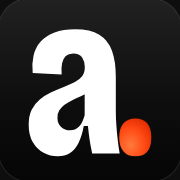
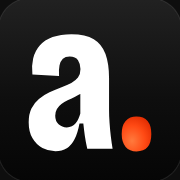
fix(web): clear the full stop, and a pill for the current page
The full stop overlapped the t by 9 units in the outlined wordmark and the
a in the icon; it now sits 40 units clear everywhere it's drawn (footer,
logo, downloadable SVGs, app icon, menu bar glyph, favicon). The nav's ember
dot under the current page is now a soft pill that slides between links.

diff --git a/web/src/data/wordmark.ts b/web/src/data/wordmark.ts
@@ -1,4 +1,4 @@
-/** The wordmark "anyfmt." outlined from Bricolage Grotesque (700, width 75, tracking -0.04em). Font units, y up.
+/** The wordmark "anyfmt." outlined from Bricolage Grotesque (700, width 75, tracking -0.04em), with the full stop set 40 units clear of the t. Font units, y up.
  * VIEWBOX frames the ink, the f and t ascenders down to the y descender, in y-down SVG space. */
-export const WORDMARK_VIEWBOX = { x: 24, y: -703, w: 2600, h: 862 }
-export const WORDMARK: { x: number; d: string; dot: boolean }[] = [{"x": 0.0, "d": "M150 -12.5Q117 -12.5 88.4 2.8Q59.8 18.2 41.7 48.9Q23.5 79.7 23.5 125.5Q23.5 163.3 36.5 190.1Q49.5 216.8 71.8 235.2Q94.2 253.7 121.9 266.7Q149.7 279.7 179 291Q205.5 301.3 225.2 311.2Q244.8 321 256.6 336.3Q268.3 351.5 268.3 377Q268.3 401 256.7 418.5Q245 436 217.5 436Q196.7 436 185.1 424.8Q173.5 413.5 169.2 392.9Q164.8 372.3 167.2 343.8L41 351Q36.2 391 44.6 426.5Q53 462 75.8 487.8Q98.7 513.7 136.3 527.7Q174 541.7 225.7 541.7Q292.7 541.7 331.3 518.1Q370 494.5 386.7 448.3Q403.5 402 403.5 334.3V184.3Q403.5 158.3 405.8 124.3Q408.2 90.2 412 57.3Q415.8 24.3 420.3 0H300.5Q293 32.7 289.1 60.4Q285.2 88.2 281.8 119.3H263.7Q255.7 75.2 240.8 45.6Q226 16 203.7 1.8Q181.5 -12.5 150 -12.5ZM203.5 100.7Q217.2 100.7 227.4 105.7Q237.7 110.7 245.5 119.8Q253.3 129 258.7 141.7Q264.2 154.3 267.7 166.7V288.8L301.5 283.5Q290 270.8 274 261.8Q258 252.7 240.8 244.8Q223.7 237 207.6 229.1Q191.5 221.2 178.3 211.2Q165.2 201.2 157.1 187.8Q149 174.5 149 155.8Q149 130.3 164.9 115.5Q180.8 100.7 203.5 100.7Z", "dot": false}, {"x": 413.0, "d": "M50.8 0V337.8V528H155.8L157.7 378.3H178.8Q187.7 437.5 203.5 473.8Q219.3 510.2 244 525.9Q268.7 541.7 303.5 541.7Q369.7 541.7 401.1 492.8Q432.5 443.8 432.5 347.3V0H294V316.8Q294 370.8 283.7 397.1Q273.3 423.3 250.3 423.3Q231.5 423.3 217.4 405Q203.3 386.7 196.2 353.3Q189.2 319.8 188.5 269.7V0Z", "dot": false}, {"x": 851.0, "d": "M203.8 -158.3Q169.7 -158.3 135.7 -151.4Q101.8 -144.5 73.1 -133.2Q44.3 -122 24.7 -106.7L73 2Q99.5 -20.5 130 -31.5Q160.5 -42.5 189 -42.5Q227.3 -42.5 256.2 -22.3Q285.2 -2.2 301.5 40.5Q317.8 83.2 317.8 150L320.5 208.8H299.8Q291.2 145.7 270.4 108.2Q249.7 70.7 221.3 53.9Q193 37.2 160.8 37.2Q123 37.2 97.6 58.7Q72.2 80.3 59 125.3Q45.8 170.3 45.8 241.2V528H184.3V285.2Q184.3 218.3 194.7 189.7Q205 161.2 229.7 161.2Q243.2 161.2 253.5 170.7Q263.8 180.2 271.2 198.3Q278.5 216.5 282.3 243.7Q286.2 270.8 286.7 306.5V528H424.3V122.8Q424.3 63.3 413.3 16.9Q402.3 -29.5 382.9 -63Q363.5 -96.5 335.8 -117.7Q308.2 -139 274.7 -148.7Q241.3 -158.3 203.8 -158.3Z", "dot": false}, {"x": 1284.0, "d": "M84 0V338.7H18.3V438.5L144.5 426.2V445.3Q101.3 455.5 75.3 475.1Q49.2 494.7 38.3 519.4Q27.3 544.2 27.3 570.3Q27.3 609.2 46.6 639.2Q65.8 669.2 100.4 686.2Q135 703.3 182 703.3Q213 703.3 241.2 695.5Q269.5 687.7 293.7 671.5L274.7 550.2Q255.8 561.5 236.7 566.7Q217.7 571.8 203.8 571.8Q177.8 571.8 164.9 555.4Q152 539 152 517.5Q152 503 158.3 489.7Q164.7 476.3 173.7 465.7Q182.8 455 194.5 444.8H280V338.7H221.7V0Z", "dot": false}, {"x": 1549.0, "d": "M50.8 0V344V528H155L156.8 378.3H178.7Q188.2 437.5 203 473.8Q217.8 510.2 240.2 525.9Q262.7 541.7 293.7 541.7Q330.5 541.7 351.8 522.1Q373.2 502.5 381.2 466.3Q389.3 430.2 386 378.5H408.2Q420 438.2 435.6 474.1Q451.2 510 474.8 525.8Q498.5 541.7 532.3 541.7Q563.2 541.7 585.8 530.1Q608.5 518.5 624 494.2Q639.5 470 646.7 432.8Q654 395.7 654 344V0H515.5V315.5Q515.5 352.8 511.3 375.9Q507.2 399 498.2 410.8Q489.2 422.5 475.3 422.5Q457.5 422.5 445 405.7Q432.5 388.8 426 355.2Q419.5 321.5 419 273V0H287V312.7Q287 351.8 282.8 375.4Q278.5 399 269.6 410.8Q260.7 422.5 245.8 422.5Q228.2 422.5 215.2 405.9Q202.2 389.3 195.7 356.2Q189.2 323 188.5 273V0Z", "dot": false}, {"x": 2210.0, "d": "M219.3 -10.2Q146.5 -10.2 104.8 32.8Q63.2 75.8 63.2 165.7V421.7H17.8V527H42Q74.2 528 89.2 537.8Q104.2 547.7 108.7 574L117.8 633.2H198.5V528H276.5V418.3H198.5V192.5Q198.5 156.7 211.2 138.7Q224 120.7 244.5 120.7Q252 120.7 261 122.3Q270 124 281.8 126.3V0Q265.7 -4 251.5 -7.1Q237.3 -10.2 219.3 -10.2Z", "dot": false}, {"x": 2478.0, "d": "M75.3 -12.7Q42.7 -12.7 24 8.6Q5.3 29.8 5.3 69.3Q5.3 109.8 24 131.1Q42.7 152.3 75.3 152.3Q110 152.3 127.7 131.1Q145.3 109.8 145.3 69.3Q145.3 -12.7 75.3 -12.7Z", "dot": true}]
+export const WORDMARK_VIEWBOX = { x: 24, y: -703, w: 2648, h: 862 }
+export const WORDMARK: { x: number; d: string; dot: boolean }[] = [{"x": 0.0, "d": "M150 -12.5Q117 -12.5 88.4 2.8Q59.8 18.2 41.7 48.9Q23.5 79.7 23.5 125.5Q23.5 163.3 36.5 190.1Q49.5 216.8 71.8 235.2Q94.2 253.7 121.9 266.7Q149.7 279.7 179 291Q205.5 301.3 225.2 311.2Q244.8 321 256.6 336.3Q268.3 351.5 268.3 377Q268.3 401 256.7 418.5Q245 436 217.5 436Q196.7 436 185.1 424.8Q173.5 413.5 169.2 392.9Q164.8 372.3 167.2 343.8L41 351Q36.2 391 44.6 426.5Q53 462 75.8 487.8Q98.7 513.7 136.3 527.7Q174 541.7 225.7 541.7Q292.7 541.7 331.3 518.1Q370 494.5 386.7 448.3Q403.5 402 403.5 334.3V184.3Q403.5 158.3 405.8 124.3Q408.2 90.2 412 57.3Q415.8 24.3 420.3 0H300.5Q293 32.7 289.1 60.4Q285.2 88.2 281.8 119.3H263.7Q255.7 75.2 240.8 45.6Q226 16 203.7 1.8Q181.5 -12.5 150 -12.5ZM203.5 100.7Q217.2 100.7 227.4 105.7Q237.7 110.7 245.5 119.8Q253.3 129 258.7 141.7Q264.2 154.3 267.7 166.7V288.8L301.5 283.5Q290 270.8 274 261.8Q258 252.7 240.8 244.8Q223.7 237 207.6 229.1Q191.5 221.2 178.3 211.2Q165.2 201.2 157.1 187.8Q149 174.5 149 155.8Q149 130.3 164.9 115.5Q180.8 100.7 203.5 100.7Z", "dot": false}, {"x": 413.0, "d": "M50.8 0V337.8V528H155.8L157.7 378.3H178.8Q187.7 437.5 203.5 473.8Q219.3 510.2 244 525.9Q268.7 541.7 303.5 541.7Q369.7 541.7 401.1 492.8Q432.5 443.8 432.5 347.3V0H294V316.8Q294 370.8 283.7 397.1Q273.3 423.3 250.3 423.3Q231.5 423.3 217.4 405Q203.3 386.7 196.2 353.3Q189.2 319.8 188.5 269.7V0Z", "dot": false}, {"x": 851.0, "d": "M203.8 -158.3Q169.7 -158.3 135.7 -151.4Q101.8 -144.5 73.1 -133.2Q44.3 -122 24.7 -106.7L73 2Q99.5 -20.5 130 -31.5Q160.5 -42.5 189 -42.5Q227.3 -42.5 256.2 -22.3Q285.2 -2.2 301.5 40.5Q317.8 83.2 317.8 150L320.5 208.8H299.8Q291.2 145.7 270.4 108.2Q249.7 70.7 221.3 53.9Q193 37.2 160.8 37.2Q123 37.2 97.6 58.7Q72.2 80.3 59 125.3Q45.8 170.3 45.8 241.2V528H184.3V285.2Q184.3 218.3 194.7 189.7Q205 161.2 229.7 161.2Q243.2 161.2 253.5 170.7Q263.8 180.2 271.2 198.3Q278.5 216.5 282.3 243.7Q286.2 270.8 286.7 306.5V528H424.3V122.8Q424.3 63.3 413.3 16.9Q402.3 -29.5 382.9 -63Q363.5 -96.5 335.8 -117.7Q308.2 -139 274.7 -148.7Q241.3 -158.3 203.8 -158.3Z", "dot": false}, {"x": 1284.0, "d": "M84 0V338.7H18.3V438.5L144.5 426.2V445.3Q101.3 455.5 75.3 475.1Q49.2 494.7 38.3 519.4Q27.3 544.2 27.3 570.3Q27.3 609.2 46.6 639.2Q65.8 669.2 100.4 686.2Q135 703.3 182 703.3Q213 703.3 241.2 695.5Q269.5 687.7 293.7 671.5L274.7 550.2Q255.8 561.5 236.7 566.7Q217.7 571.8 203.8 571.8Q177.8 571.8 164.9 555.4Q152 539 152 517.5Q152 503 158.3 489.7Q164.7 476.3 173.7 465.7Q182.8 455 194.5 444.8H280V338.7H221.7V0Z", "dot": false}, {"x": 1549.0, "d": "M50.8 0V344V528H155L156.8 378.3H178.7Q188.2 437.5 203 473.8Q217.8 510.2 240.2 525.9Q262.7 541.7 293.7 541.7Q330.5 541.7 351.8 522.1Q373.2 502.5 381.2 466.3Q389.3 430.2 386 378.5H408.2Q420 438.2 435.6 474.1Q451.2 510 474.8 525.8Q498.5 541.7 532.3 541.7Q563.2 541.7 585.8 530.1Q608.5 518.5 624 494.2Q639.5 470 646.7 432.8Q654 395.7 654 344V0H515.5V315.5Q515.5 352.8 511.3 375.9Q507.2 399 498.2 410.8Q489.2 422.5 475.3 422.5Q457.5 422.5 445 405.7Q432.5 388.8 426 355.2Q419.5 321.5 419 273V0H287V312.7Q287 351.8 282.8 375.4Q278.5 399 269.6 410.8Q260.7 422.5 245.8 422.5Q228.2 422.5 215.2 405.9Q202.2 389.3 195.7 356.2Q189.2 323 188.5 273V0Z", "dot": false}, {"x": 2210.0, "d": "M219.3 -10.2Q146.5 -10.2 104.8 32.8Q63.2 75.8 63.2 165.7V421.7H17.8V527H42Q74.2 528 89.2 537.8Q104.2 547.7 108.7 574L117.8 633.2H198.5V528H276.5V418.3H198.5V192.5Q198.5 156.7 211.2 138.7Q224 120.7 244.5 120.7Q252 120.7 261 122.3Q270 124 281.8 126.3V0Q265.7 -4 251.5 -7.1Q237.3 -10.2 219.3 -10.2Z", "dot": false}, {"x": 2527.0, "d": "M75.3 -12.7Q42.7 -12.7 24 8.6Q5.3 29.8 5.3 69.3Q5.3 109.8 24 131.1Q42.7 152.3 75.3 152.3Q110 152.3 127.7 131.1Q145.3 109.8 145.3 69.3Q145.3 -12.7 75.3 -12.7Z", "dot": true}]

diff --git a/web/src/components/Nav.tsx b/web/src/components/Nav.tsx
@@ -51,18 +51,22 @@ export function Nav({ tone = 'light' }: { tone?: 'light' | 'dark' }) {
           : { maxWidth: 1440, paddingLeft: 18, paddingRight: 18, backgroundColor: 'rgba(255,255,255,0)', boxShadow: '0 0 0 rgba(0,0,0,0), 0 0 0 rgba(0,0,0,0)', borderRadius: 999 }}
         transition={reduce ? { duration: 0 } : { duration: 0.6, ease: EASE }}
         className={`mx-auto flex h-16 items-center justify-between gap-4`}>
-        <div className="flex min-w-0 items-center gap-10">
+        <div className="flex min-w-0 items-center gap-7">
           <Link to="/" aria-label="anyfmt home" className="shrink-0 rounded-md outline-none focus-visible:ring-2 focus-visible:ring-flare">
             <Logo tone={light ? 'ink' : 'white'} className={pinned ? 'text-[26px]' : 'text-[30px]'} />
           </Link>
-          <ul className="hidden items-center gap-7 lg:flex">
-            {NAV.map(([l, to]) => (
-              <li key={to} className="relative">
-                <Link to={to} aria-current={active(to) ? 'page' : undefined}
-                  className={`link-line py-1 text-[15.5px] outline-none transition-colors focus-visible:ring-2 focus-visible:ring-flare ${ink}`}>{l}</Link>
-                {active(to) && <motion.span layoutId="nav-dot" className="absolute -bottom-2.5 left-1/2 h-1.5 w-1.5 -translate-x-1/2 rounded-full bg-flare" transition={{ type: 'spring', stiffness: 500, damping: 34 }} />}
-              </li>
-            ))}
+          {/* the current section sits in a soft pill that slides to the next one; the others are a step quieter */}
+          <ul className="hidden items-center gap-1 lg:flex">
+            {NAV.map(([l, to]) => {
+              const on = active(to)
+              return (
+                <li key={to} className="relative">
+                  {on && <motion.span layoutId="nav-pill" aria-hidden className={`absolute inset-0 rounded-full ${light ? 'bg-black/[.06]' : 'bg-white/[.14]'}`} transition={{ type: 'spring', stiffness: 520, damping: 40 }} />}
+                  <Link to={to} aria-current={on ? 'page' : undefined}
+                    className={`relative flex h-9 items-center rounded-full px-3.5 text-[15.5px] outline-none transition-colors duration-200 focus-visible:ring-2 focus-visible:ring-flare ${on ? ink : light ? 'text-ink/65 hover:text-ink' : 'text-white/70 hover:text-white'}`}>{l}</Link>
+                </li>
+              )
+            })}
           </ul>
         </div>
         <div className="flex shrink-0 items-center gap-2">
@@ -95,8 +99,8 @@ export function Nav({ tone = 'light' }: { tone?: 'light' | 'dark' }) {
               <ul className="mt-6 flex flex-col">
                 {NAV.map(([l, to], i) => (
                   <motion.li key={to} initial={{ opacity: 0, y: 16 }} animate={{ opacity: 1, y: 0 }} transition={{ duration: 0.5, ease: EASE, delay: 0.08 + i * 0.04 }}>
-                    <Link to={to} className="flex items-center justify-between rounded-[12px] py-1 text-[32px] font-semibold tracking-[-0.04em] outline-none focus-visible:ring-2 focus-visible:ring-flare">
-                      {l}{active(to) && <span className="h-2.5 w-2.5 rounded-full bg-flare" />}
+                    <Link to={to} aria-current={active(to) ? 'page' : undefined} className={`-mx-3 flex items-center rounded-[16px] px-3 py-1 text-[32px] font-semibold tracking-[-0.04em] outline-none focus-visible:ring-2 focus-visible:ring-flare ${active(to) ? 'bg-sand-2' : ''}`}>
+                      {l}
                     </Link>
                   </motion.li>
                 ))}

diff --git a/web/src/components/AppIcon.tsx b/web/src/components/AppIcon.tsx
@@ -14,8 +14,9 @@ const squircle = (() => {
   return `M${pts.join('L')}Z`
 })()
 
-// "a." set as in the wordmark (tracking −0.04em), sized to 0.52 of the canvas and centred on its ink
-const TRACK = -40
+// "a." as in the wordmark: tracking −0.04em, then the full stop eased 45 units clear of the a's foot.
+// Sized to 0.52 of the canvas and centred on its ink.
+const TRACK = 5
 const DOT_X = GLYPH_A.adv + TRACK
 const INK = { x0: 23.5, x1: DOT_X + 145.3, y0: -12.6, y1: 541.7 }
 const S = 532 / (INK.x1 - INK.x0)
@@ -47,10 +48,10 @@ export function AppIcon({ size = 128, className = '', uid = 'ai', tone = 'ink' }
 /** The menu bar glyph: the same "a." as a single-colour template image, 18 pt like the system's own. */
 export function MenuBarGlyph({ size = 16, className = '' }: { size?: number; className?: string }) {
   return (
-    <svg width={size} height={size} viewBox="0 -560 600 600" className={className} aria-hidden>
+    <svg width={size} height={size} viewBox="4 -572 624 624" className={className} aria-hidden>
       <g transform="scale(1 -1)" fill="currentColor">
         <path d={GLYPH_A.d} />
-        <path d={GLYPH_DOT.d} transform={`translate(${GLYPH_A.adv - 40} 0)`} />
+        <path d={GLYPH_DOT.d} transform={`translate(${DOT_X} 0)`} />
       </g>
     </svg>
   )

diff --git a/web/src/components/ui.tsx b/web/src/components/ui.tsx
@@ -6,7 +6,7 @@ import { copyText, EASE } from '../lib/hooks'
 export function Logo({ className = '', tone = 'ink' }: { className?: string; tone?: 'ink' | 'white' }) {
   return (
     <span className={`font-wordmark text-[32px] font-bold leading-none tracking-[-0.04em] ${tone === 'ink' ? 'text-ink' : 'text-white'} ${className}`}>
-      anyfmt<span className="text-flare">.</span>
+      anyfmt<span className="ml-[0.05em] text-flare">.</span>
     </span>
   )
 }
